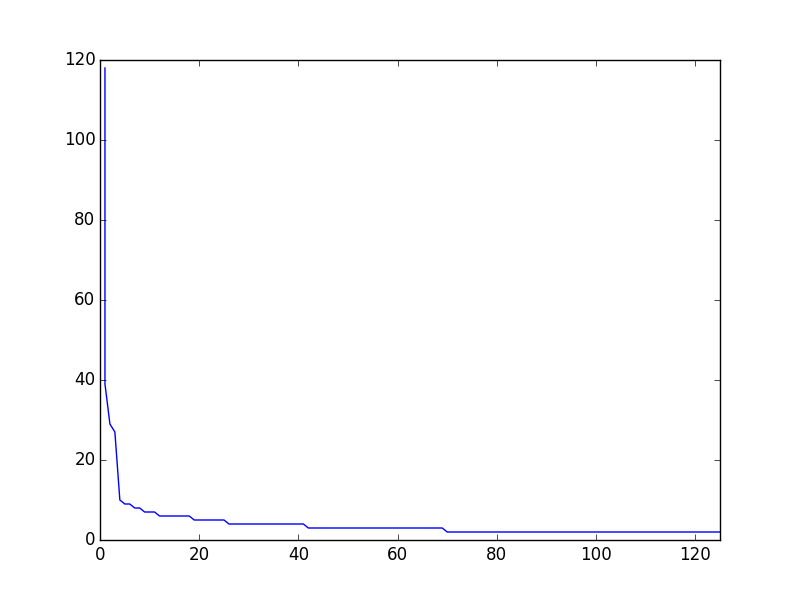
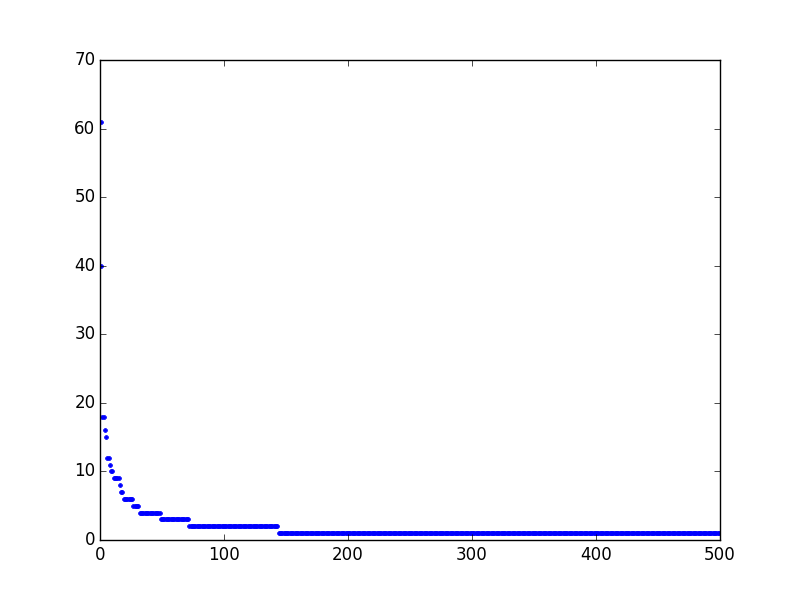
Removing debug print statements and such

diff --git a/main.py b/main.py
@@ -1,4 +1,5 @@
 import random
+import matplotlib.pyplot as plt
 
 class PaperClipChain:
     
@@ -23,7 +24,7 @@ def chooseChainsToAdd(allChains):
             expandedPileOfChains.append(chain)
             i += 1
             
-    print "There are %i paperclips." % len(expandedPileOfChains)
+    #print "There are %i paperclips." % len(expandedPileOfChains)
     indexOfFirstChain = random.randint(0, len(expandedPileOfChains) - 1)
     firstChain = expandedPileOfChains[indexOfFirstChain]
     
@@ -33,13 +34,26 @@ def chooseChainsToAdd(allChains):
         secondChain = expandedPileOfChains[indexOfSecondChain]
     
     return (firstChain, secondChain)
+
 def printChainLengths(pileOfChains):
-    print "There are a total of %i chains" % len(pileOfChains)
+    #print "There are a total of %i chains" % len(pileOfChains)
     for chain in pileOfChains:
         print chain.numberOfLinks
 
+def makeGraph(listOfChainLengths):
+    xSeries = [1]
+    while len(xSeries) < len(listOfChainLengths):
+        xSeries.append(len(xSeries))
+    plt.figure()
+    #plt.xlim(xmax = len(listOfChainLengths) / 4)
+    plt.plot(xSeries, listOfChainLengths, ".")
+    plt.savefig("results.png")
+
+
+
+# Main Stuff
 pileOfChains = makeABunchOfPaperClips([])
-operationsToComplete = 980
+operationsToComplete = 500
 operationsCompleted = 0
 
 while operationsCompleted < operationsToComplete and len(pileOfChains) > 1:
@@ -48,8 +62,12 @@ while operationsCompleted < operationsToComplete and len(pileOfChains) > 1:
     pileOfChains.remove(chainsToAdd[1])
     operationsCompleted += 1
     
-print "Preformed %i operations" % operationsCompleted
-printChainLengths(pileOfChains)
+sortedListOfChainLengths = sorted([chain.numberOfLinks for chain in pileOfChains])[::-1]
+makeGraph(sortedListOfChainLengths)
+
+
+#print "Preformed %i operations" % operationsCompleted
+#printChainLengths(pileOfChains)
 
 
 
